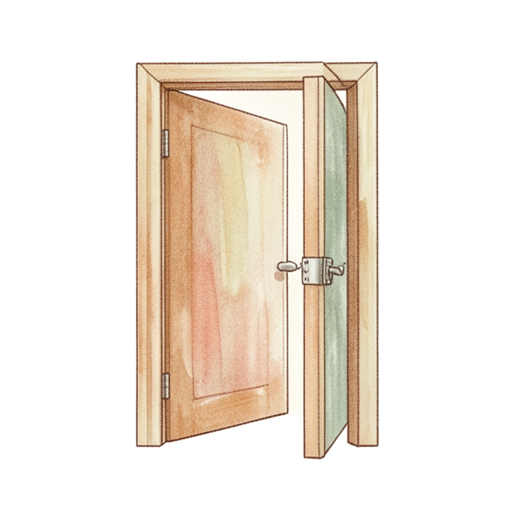
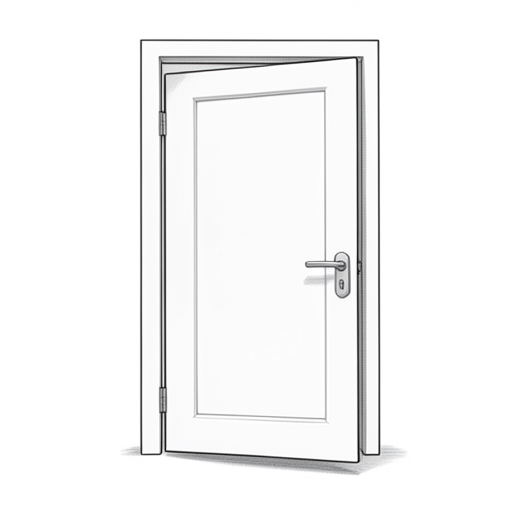
Save generated candidate and queue receipt

diff --git a/data/symbol-white-0.13-arm512/review.html b/data/symbol-white-0.13-arm512/review.html
@@ -1,1 +1,1 @@
-<!doctype html><html lang="sv"><meta charset="utf-8"><title>Bildkandidater</title><style>body{font:16px system-ui;margin:32px;color:#344453;background:white}.cards{display:flex;flex-wrap:wrap;gap:24px}figure{margin:0;width:240px;border:1px solid #ddd;padding:12px}img{width:100%;height:auto}small{color:#666}</style><h1>Bildkandidater</h1><figure><img src="reference.png" alt="Godkänd stilreferens"><figcaption>Stilreferens · se kandidatens metadata för om modellen använder referensbilden som indata.</figcaption></figure><p>Kontrollera handling, händer, borttagning av bakgrund och stil mot referensbilden. Ingen kandidat är publicerad.</p><div class="cards"><figure><img src="FSK_14_65.png" alt="ägg"><figcaption>ägg</figcaption><small>Utkast · granskning krävs</small><details><summary>Före friläggning</summary><img src="raw/FSK_14_65.png" alt="Motivet före bakgrundsborttagning"></details></figure><figure><img src="FSK_15_21.png" alt="fönster"><figcaption>fönster</figcaption><small>Utkast · granskning krävs</small><details><summary>Före friläggning</summary><img src="raw/FSK_15_21.png" alt="Motivet före bakgrundsborttagning"></details></figure><figure><img src="FSK_15_53.png" alt="ost"><figcaption>ost</figcaption><small>Utkast · granskning krävs</small><details><summary>Före friläggning</summary><img src="raw/FSK_15_53.png" alt="Motivet före bakgrundsborttagning"></details></figure><figure><img src="FSK_22_65.png" alt="domino"><figcaption>domino</figcaption><small>Utkast · granskning krävs</small><details><summary>Före friläggning</summary><img src="raw/FSK_22_65.png" alt="Motivet före bakgrundsborttagning"></details></figure><figure><img src="FSK_22_72.png" alt="tärning"><figcaption>tärning</figcaption><small>Utkast · granskning krävs</small><details><summary>Före friläggning</summary><img src="raw/FSK_22_72.png" alt="Motivet före bakgrundsborttagning"></details></figure><figure><img src="FSK_24_15.png" alt="såpbubblor"><figcaption>såpbubblor</figcaption><small>Utkast · granskning krävs</small><details><summary>Före friläggning</summary><img src="raw/FSK_24_15.png" alt="Motivet före bakgrundsborttagning"></details></figure><figure><img src="FSK_24_72.png" alt="reflexväst"><figcaption>reflexväst</figcaption><small>Utkast · granskning krävs</small><details><summary>Före friläggning</summary><img src="raw/FSK_24_72.png" alt="Motivet före bakgrundsborttagning"></details></figure><figure><img src="FSK_25_26.png" alt="pennvässare"><figcaption>pennvässare</figcaption><small>Utkast · granskning krävs</small><details><summary>Före friläggning</summary><img src="raw/FSK_25_26.png" alt="Motivet före bakgrundsborttagning"></details></figure><figure><img src="FSK_25_33.png" alt="piprensare"><figcaption>piprensare</figcaption><small>Utkast · granskning krävs</small><details><summary>Före friläggning</summary><img src="raw/FSK_25_33.png" alt="Motivet före bakgrundsborttagning"></details></figure><figure><img src="FSK_27_14.png" alt="buss"><figcaption>buss</figcaption><small>Utkast · granskning krävs</small><details><summary>Före friläggning</summary><img src="raw/FSK_27_14.png" alt="Motivet före bakgrundsborttagning"></details></figure><figure><img src="FSK_27_67.png" alt="flygplan"><figcaption>flygplan</figcaption><small>Utkast · granskning krävs</small><details><summary>Före friläggning</summary><img src="raw/FSK_27_67.png" alt="Motivet före bakgrundsborttagning"></details></figure><figure><img src="FSK_28_68.png" alt="helikopter"><figcaption>helikopter</figcaption><small>Utkast · granskning krävs</small><details><summary>Före friläggning</summary><img src="raw/FSK_28_68.png" alt="Motivet före bakgrundsborttagning"></details></figure><figure><img src="FSK_29_28.png" alt="pennskrin"><figcaption>pennskrin</figcaption><small>Utkast · granskning krävs</small><details><summary>Före friläggning</summary><img src="raw/FSK_29_28.png" alt="Motivet före bakgrundsborttagning"></details></figure><figure><img src="FSK_30_91.png" alt="plåster"><figcaption>plåster</figcaption><small>Utkast · granskning krävs</small><details><summary>Före friläggning</summary><img src="raw/FSK_30_91.png" alt="Motivet före bakgrundsborttagning"></details></figure><figure><img src="FSK_31_58.png" alt="groda"><figcaption>groda</figcaption><small>Utkast · granskning krävs</small><details><summary>Före friläggning</summary><img src="raw/FSK_31_58.png" alt="Motivet före bakgrundsborttagning"></details></figure><figure><img src="FSK_31_88.png" alt="madrass"><figcaption>madrass</figcaption><small>Utkast · granskning krävs</small><details><summary>Före friläggning</summary><img src="raw/FSK_31_88.png" alt="Motivet före bakgrundsborttagning"></details></figure><figure><img src="FSK_32_01.png" alt="väckarklocka"><figcaption>väckarklocka</figcaption><small>Utkast · granskning krävs</small><details><summary>Före friläggning</summary><img src="raw/FSK_32_01.png" alt="Motivet före bakgrundsborttagning"></details></figure><figure><img src="FSK_32_68.png" alt="hopprep"><figcaption>hopprep</figcaption><small>Utkast · granskning krävs</small><details><summary>Före friläggning</summary><img src="raw/FSK_32_68.png" alt="Motivet före bakgrundsborttagning"></details></figure><figure><img src="FSK_90_03.png" alt="samling"><figcaption>samling</figcaption><small>Utkast · granskning krävs</small><details><summary>Före friläggning</summary><img src="raw/FSK_90_03.png" alt="Motivet före bakgrundsborttagning"></details></figure><figure><img src="FSK_90_08.png" alt="lyssna"><figcaption>lyssna</figcaption><small>Utkast · granskning krävs</small><details><summary>Före friläggning</summary><img src="raw/FSK_90_08.png" alt="Motivet före bakgrundsborttagning"></details></figure><figure><img src="FSK_91_05.png" alt="tröja"><figcaption>tröja</figcaption><small>Utkast · granskning krävs</small><details><summary>Före friläggning</summary><img src="raw/FSK_91_05.png" alt="Motivet före bakgrundsborttagning"></details></figure><figure><img src="FSK_91_06.png" alt="strumpor"><figcaption>strumpor</figcaption><small>Utkast · granskning krävs</small><details><summary>Före friläggning</summary><img src="raw/FSK_91_06.png" alt="Motivet före bakgrundsborttagning"></details></figure><figure><img src="FSK_91_08.png" alt="ryggsäck"><figcaption>ryggsäck</figcaption><small>Utkast · granskning krävs</small><details><summary>Före friläggning</summary><img src="raw/FSK_91_08.png" alt="Motivet före bakgrundsborttagning"></details></figure><figure><img src="FSK_91_10.png" alt="halsduk"><figcaption>halsduk</figcaption><small>Utkast · granskning krävs</small><details><summary>Före friläggning</summary><img src="raw/FSK_91_10.png" alt="Motivet före bakgrundsborttagning"></details></figure><figure><img src="FSK_91_26.png" alt="smörgås"><figcaption>smörgås</figcaption><small>Utkast · granskning krävs</small><details><summary>Före friläggning</summary><img src="raw/FSK_91_26.png" alt="Motivet före bakgrundsborttagning"></details></figure><figure><img src="FSK_91_28.png" alt="vatten"><figcaption>vatten</figcaption><small>Utkast · granskning krävs</small><details><summary>Före friläggning</summary><img src="raw/FSK_91_28.png" alt="Motivet före bakgrundsborttagning"></details></figure><figure><img src="FSK_91_68.png" alt="katt"><figcaption>katt</figcaption><small>Utkast · granskning krävs</small><details><summary>Före friläggning</summary><img src="raw/FSK_91_68.png" alt="Motivet före bakgrundsborttagning"></details></figure><figure><img src="FSK_92_05.png" alt="klippa"><figcaption>klippa</figcaption><small>Utkast · granskning krävs</small><details><summary>Före friläggning</summary><img src="raw/FSK_92_05.png" alt="Motivet före bakgrundsborttagning"></details></figure><figure><img src="FSK_92_06.png" alt="sova"><figcaption>sova</figcaption><small>Utkast · granskning krävs</small><details><summary>Före friläggning</summary><img src="raw/FSK_92_06.png" alt="Motivet före bakgrundsborttagning"></details></figure></div></html>
+<!doctype html><html lang="sv"><meta charset="utf-8"><title>Bildkandidater</title><style>body{font:16px system-ui;margin:32px;color:#344453;background:white}.cards{display:flex;flex-wrap:wrap;gap:24px}figure{margin:0;width:240px;border:1px solid #ddd;padding:12px}img{width:100%;height:auto}small{color:#666}</style><h1>Bildkandidater</h1><figure><img src="reference.png" alt="Godkänd stilreferens"><figcaption>Stilreferens · se kandidatens metadata för om modellen använder referensbilden som indata.</figcaption></figure><p>Kontrollera handling, händer, borttagning av bakgrund och stil mot referensbilden. Ingen kandidat är publicerad.</p><div class="cards"><figure><img src="FSK_14_65.png" alt="ägg"><figcaption>ägg</figcaption><small>Utkast · granskning krävs</small><details><summary>Före friläggning</summary><img src="raw/FSK_14_65.png" alt="Motivet före bakgrundsborttagning"></details></figure><figure><img src="FSK_15_21.png" alt="fönster"><figcaption>fönster</figcaption><small>Utkast · granskning krävs</small><details><summary>Före friläggning</summary><img src="raw/FSK_15_21.png" alt="Motivet före bakgrundsborttagning"></details></figure><figure><img src="FSK_15_53.png" alt="ost"><figcaption>ost</figcaption><small>Utkast · granskning krävs</small><details><summary>Före friläggning</summary><img src="raw/FSK_15_53.png" alt="Motivet före bakgrundsborttagning"></details></figure><figure><img src="FSK_16_07.png" alt="dörr"><figcaption>dörr</figcaption><small>Utkast · granskning krävs</small><details><summary>Före friläggning</summary><img src="raw/FSK_16_07.png" alt="Motivet före bakgrundsborttagning"></details></figure><figure><img src="FSK_22_65.png" alt="domino"><figcaption>domino</figcaption><small>Utkast · granskning krävs</small><details><summary>Före friläggning</summary><img src="raw/FSK_22_65.png" alt="Motivet före bakgrundsborttagning"></details></figure><figure><img src="FSK_22_72.png" alt="tärning"><figcaption>tärning</figcaption><small>Utkast · granskning krävs</small><details><summary>Före friläggning</summary><img src="raw/FSK_22_72.png" alt="Motivet före bakgrundsborttagning"></details></figure><figure><img src="FSK_24_15.png" alt="såpbubblor"><figcaption>såpbubblor</figcaption><small>Utkast · granskning krävs</small><details><summary>Före friläggning</summary><img src="raw/FSK_24_15.png" alt="Motivet före bakgrundsborttagning"></details></figure><figure><img src="FSK_24_72.png" alt="reflexväst"><figcaption>reflexväst</figcaption><small>Utkast · granskning krävs</small><details><summary>Före friläggning</summary><img src="raw/FSK_24_72.png" alt="Motivet före bakgrundsborttagning"></details></figure><figure><img src="FSK_25_26.png" alt="pennvässare"><figcaption>pennvässare</figcaption><small>Utkast · granskning krävs</small><details><summary>Före friläggning</summary><img src="raw/FSK_25_26.png" alt="Motivet före bakgrundsborttagning"></details></figure><figure><img src="FSK_25_33.png" alt="piprensare"><figcaption>piprensare</figcaption><small>Utkast · granskning krävs</small><details><summary>Före friläggning</summary><img src="raw/FSK_25_33.png" alt="Motivet före bakgrundsborttagning"></details></figure><figure><img src="FSK_27_14.png" alt="buss"><figcaption>buss</figcaption><small>Utkast · granskning krävs</small><details><summary>Före friläggning</summary><img src="raw/FSK_27_14.png" alt="Motivet före bakgrundsborttagning"></details></figure><figure><img src="FSK_27_67.png" alt="flygplan"><figcaption>flygplan</figcaption><small>Utkast · granskning krävs</small><details><summary>Före friläggning</summary><img src="raw/FSK_27_67.png" alt="Motivet före bakgrundsborttagning"></details></figure><figure><img src="FSK_28_68.png" alt="helikopter"><figcaption>helikopter</figcaption><small>Utkast · granskning krävs</small><details><summary>Före friläggning</summary><img src="raw/FSK_28_68.png" alt="Motivet före bakgrundsborttagning"></details></figure><figure><img src="FSK_29_28.png" alt="pennskrin"><figcaption>pennskrin</figcaption><small>Utkast · granskning krävs</small><details><summary>Före friläggning</summary><img src="raw/FSK_29_28.png" alt="Motivet före bakgrundsborttagning"></details></figure><figure><img src="FSK_30_91.png" alt="plåster"><figcaption>plåster</figcaption><small>Utkast · granskning krävs</small><details><summary>Före friläggning</summary><img src="raw/FSK_30_91.png" alt="Motivet före bakgrundsborttagning"></details></figure><figure><img src="FSK_31_58.png" alt="groda"><figcaption>groda</figcaption><small>Utkast · granskning krävs</small><details><summary>Före friläggning</summary><img src="raw/FSK_31_58.png" alt="Motivet före bakgrundsborttagning"></details></figure><figure><img src="FSK_31_88.png" alt="madrass"><figcaption>madrass</figcaption><small>Utkast · granskning krävs</small><details><summary>Före friläggning</summary><img src="raw/FSK_31_88.png" alt="Motivet före bakgrundsborttagning"></details></figure><figure><img src="FSK_32_01.png" alt="väckarklocka"><figcaption>väckarklocka</figcaption><small>Utkast · granskning krävs</small><details><summary>Före friläggning</summary><img src="raw/FSK_32_01.png" alt="Motivet före bakgrundsborttagning"></details></figure><figure><img src="FSK_32_68.png" alt="hopprep"><figcaption>hopprep</figcaption><small>Utkast · granskning krävs</small><details><summary>Före friläggning</summary><img src="raw/FSK_32_68.png" alt="Motivet före bakgrundsborttagning"></details></figure><figure><img src="FSK_90_03.png" alt="samling"><figcaption>samling</figcaption><small>Utkast · granskning krävs</small><details><summary>Före friläggning</summary><img src="raw/FSK_90_03.png" alt="Motivet före bakgrundsborttagning"></details></figure><figure><img src="FSK_90_08.png" alt="lyssna"><figcaption>lyssna</figcaption><small>Utkast · granskning krävs</small><details><summary>Före friläggning</summary><img src="raw/FSK_90_08.png" alt="Motivet före bakgrundsborttagning"></details></figure><figure><img src="FSK_91_05.png" alt="tröja"><figcaption>tröja</figcaption><small>Utkast · granskning krävs</small><details><summary>Före friläggning</summary><img src="raw/FSK_91_05.png" alt="Motivet före bakgrundsborttagning"></details></figure><figure><img src="FSK_91_06.png" alt="strumpor"><figcaption>strumpor</figcaption><small>Utkast · granskning krävs</small><details><summary>Före friläggning</summary><img src="raw/FSK_91_06.png" alt="Motivet före bakgrundsborttagning"></details></figure><figure><img src="FSK_91_08.png" alt="ryggsäck"><figcaption>ryggsäck</figcaption><small>Utkast · granskning krävs</small><details><summary>Före friläggning</summary><img src="raw/FSK_91_08.png" alt="Motivet före bakgrundsborttagning"></details></figure><figure><img src="FSK_91_10.png" alt="halsduk"><figcaption>halsduk</figcaption><small>Utkast · granskning krävs</small><details><summary>Före friläggning</summary><img src="raw/FSK_91_10.png" alt="Motivet före bakgrundsborttagning"></details></figure><figure><img src="FSK_91_26.png" alt="smörgås"><figcaption>smörgås</figcaption><small>Utkast · granskning krävs</small><details><summary>Före friläggning</summary><img src="raw/FSK_91_26.png" alt="Motivet före bakgrundsborttagning"></details></figure><figure><img src="FSK_91_28.png" alt="vatten"><figcaption>vatten</figcaption><small>Utkast · granskning krävs</small><details><summary>Före friläggning</summary><img src="raw/FSK_91_28.png" alt="Motivet före bakgrundsborttagning"></details></figure><figure><img src="FSK_91_68.png" alt="katt"><figcaption>katt</figcaption><small>Utkast · granskning krävs</small><details><summary>Före friläggning</summary><img src="raw/FSK_91_68.png" alt="Motivet före bakgrundsborttagning"></details></figure><figure><img src="FSK_92_05.png" alt="klippa"><figcaption>klippa</figcaption><small>Utkast · granskning krävs</small><details><summary>Före friläggning</summary><img src="raw/FSK_92_05.png" alt="Motivet före bakgrundsborttagning"></details></figure><figure><img src="FSK_92_06.png" alt="sova"><figcaption>sova</figcaption><small>Utkast · granskning krävs</small><details><summary>Före friläggning</summary><img src="raw/FSK_92_06.png" alt="Motivet före bakgrundsborttagning"></details></figure></div></html>
